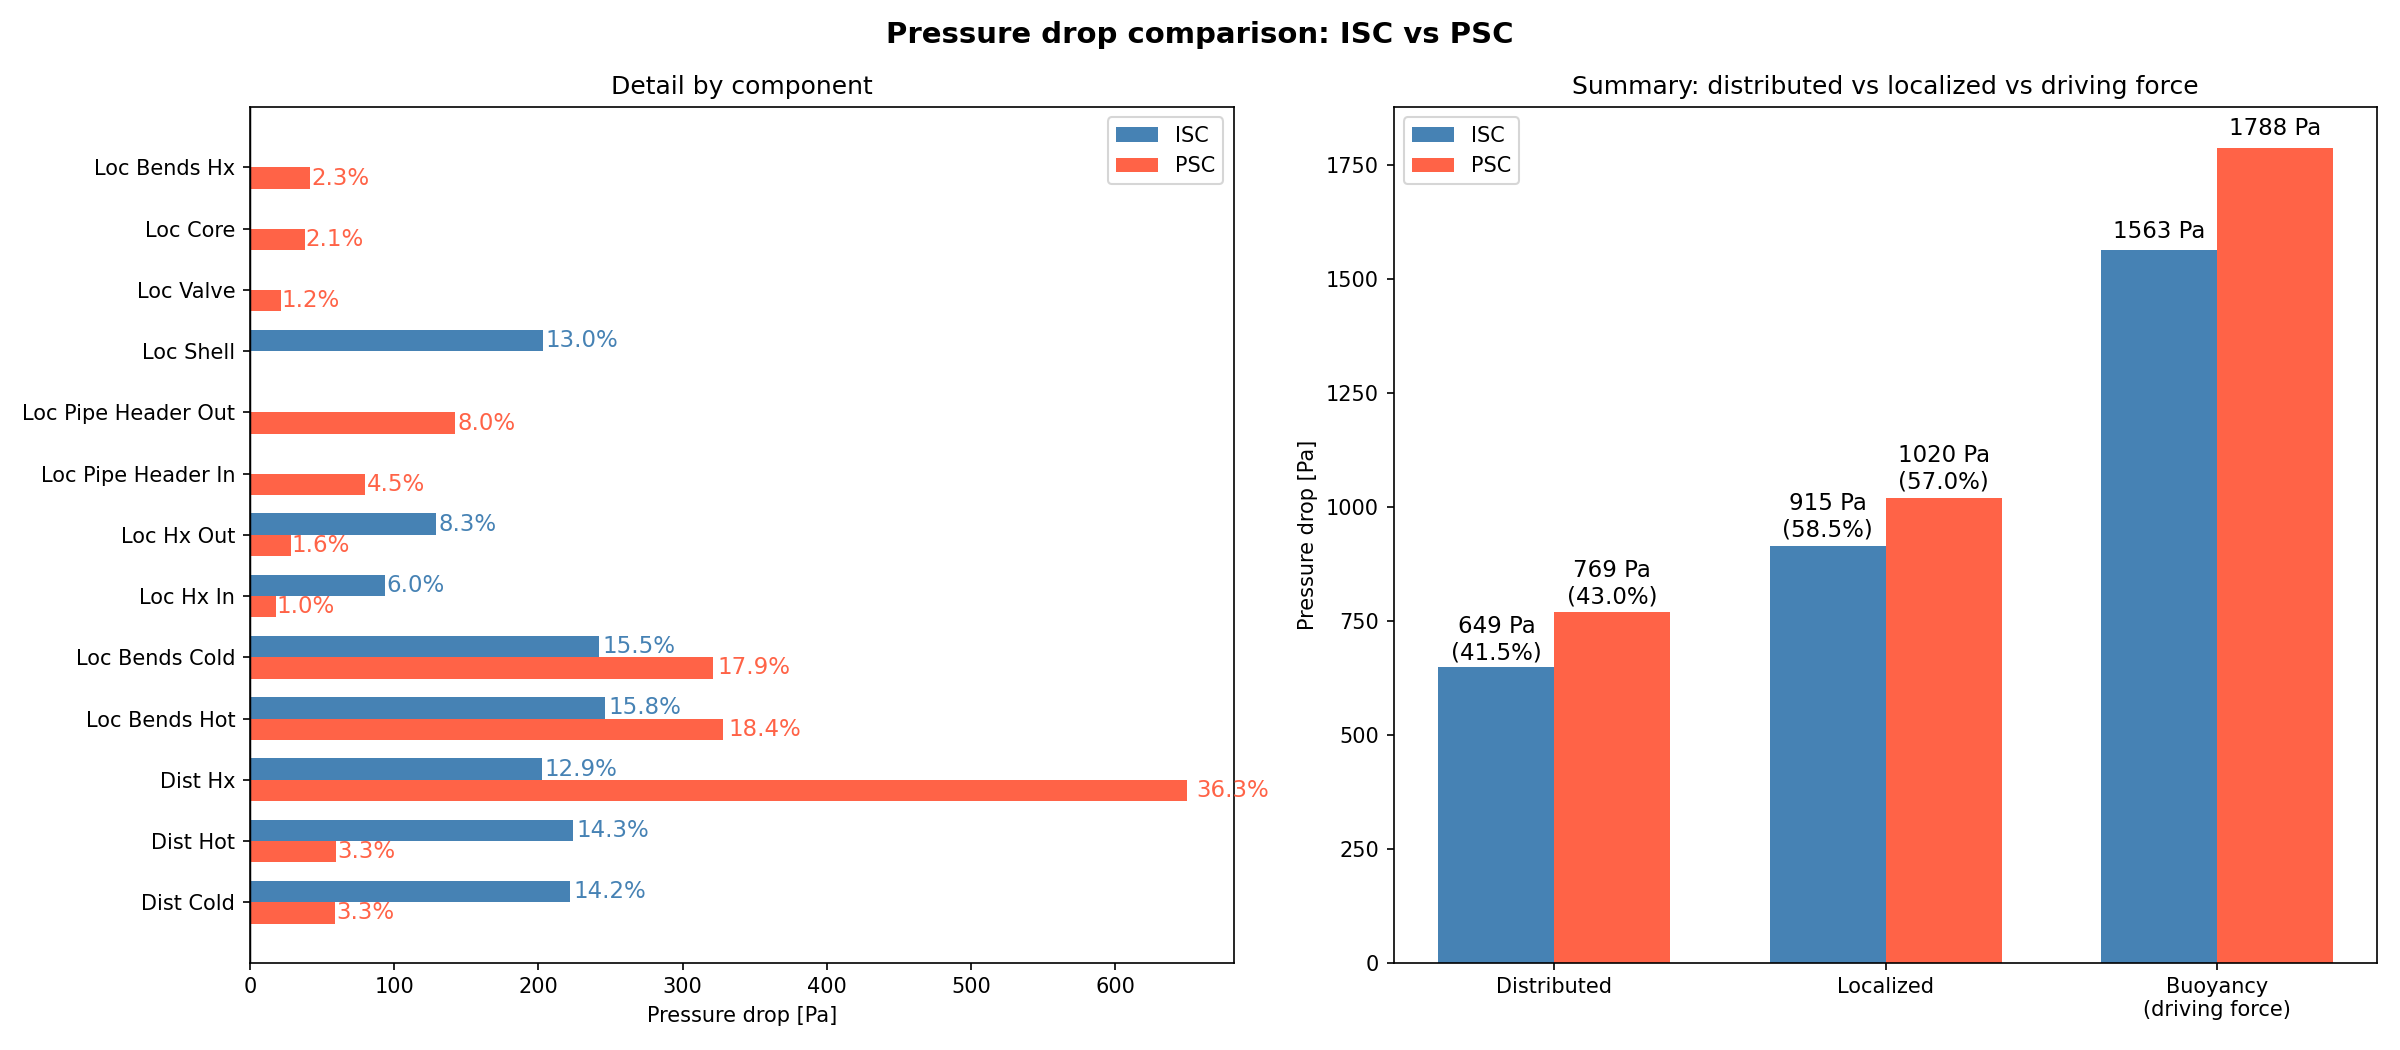
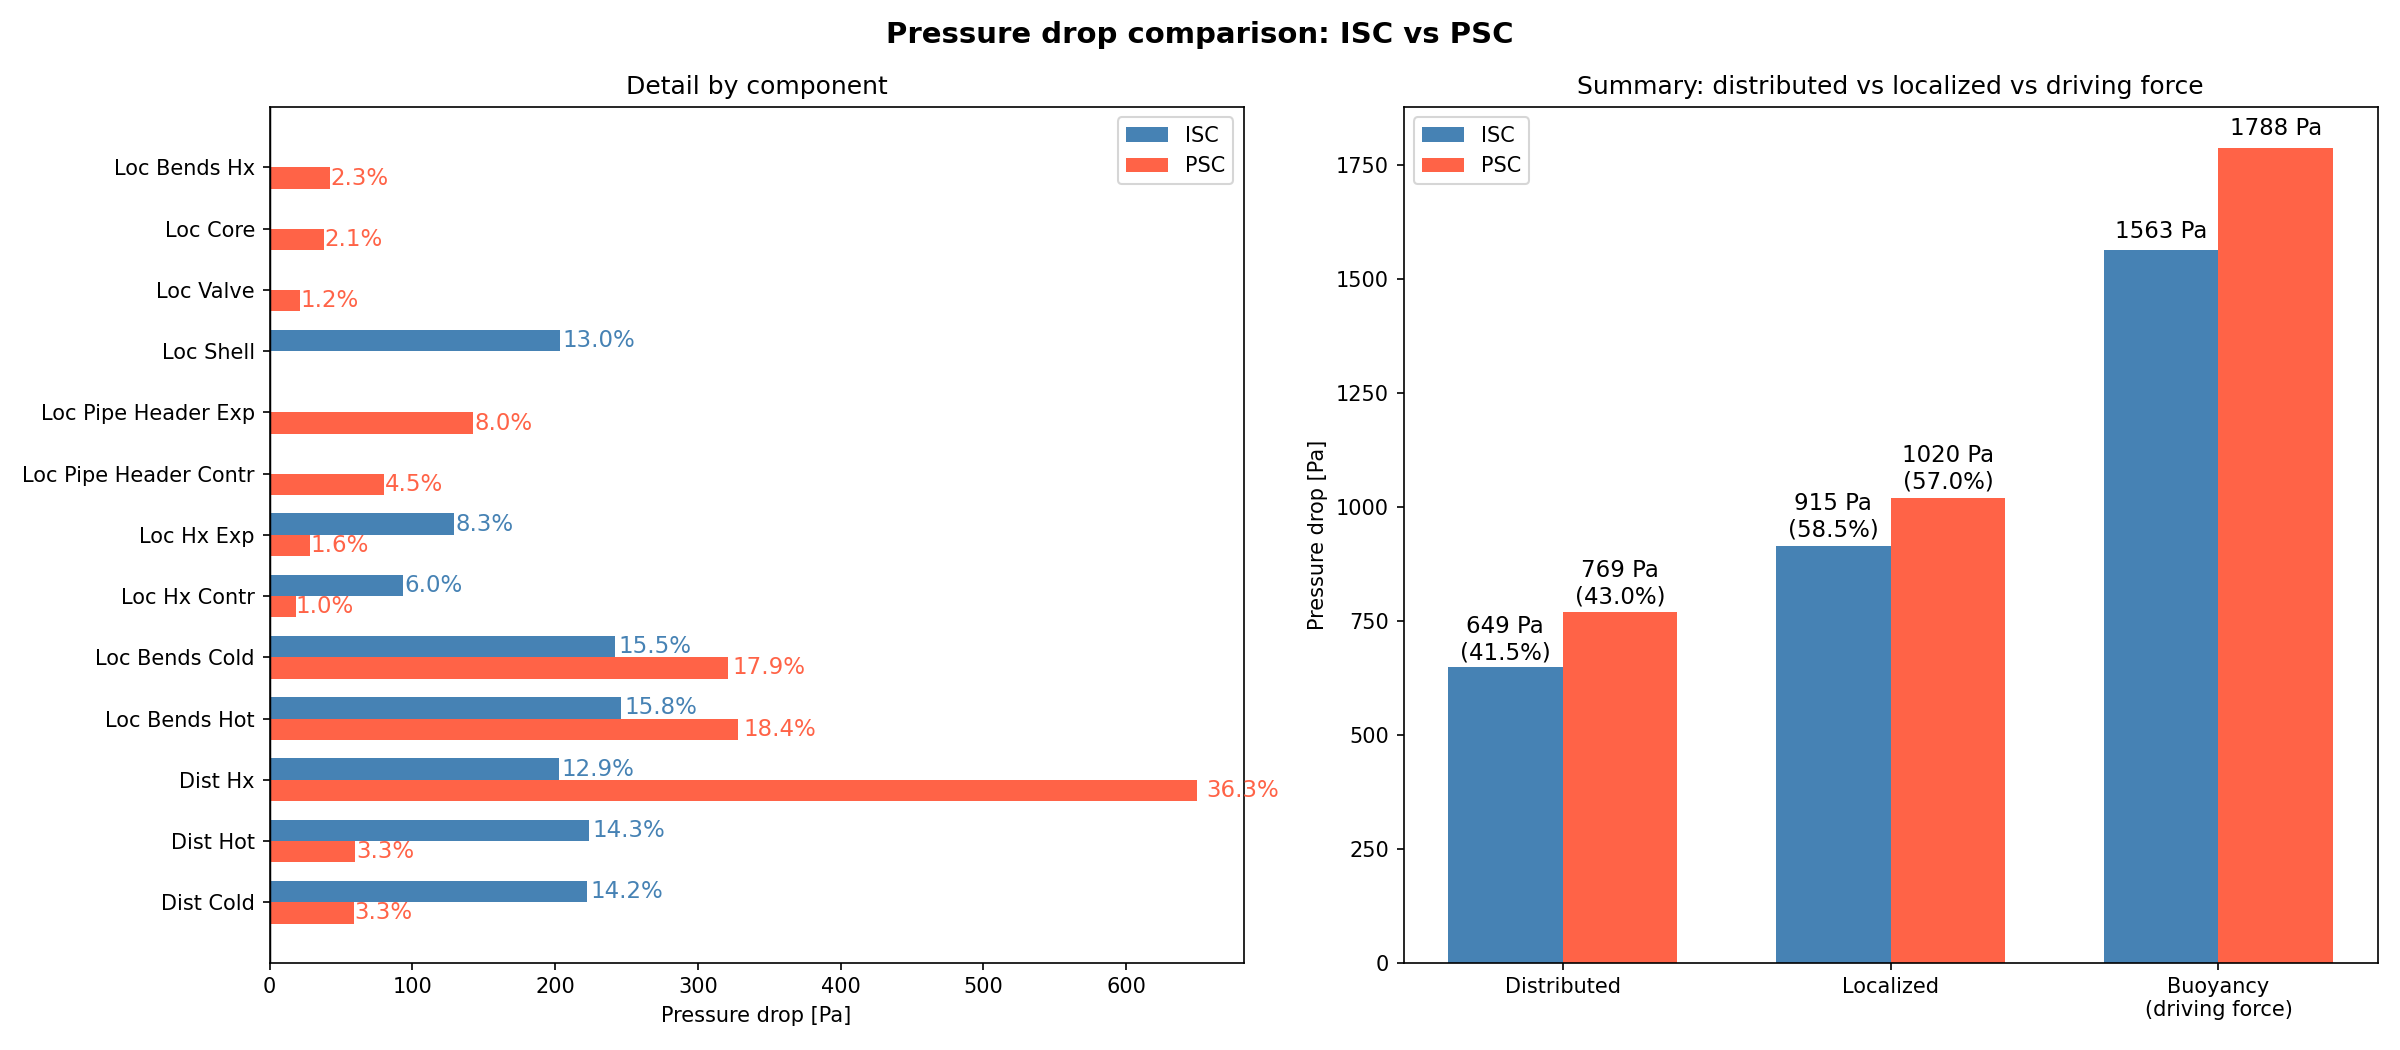
nomi headers

diff --git a/assignment1/project2.py b/assignment1/project2.py
@@ -120,12 +120,12 @@ def pressure_drop_friction(m, N_HX, p, D_pipe, D_HX, T_av, T_c, T_h, eps_pipe, e
         else:
             sigma = A_pipe / A_HX_tot
             A_narrow = A_pipe
-        k_in = 0.5*(1-sigma)
-        k_out = (1-sigma)**2
-        dp_loc_HX_in  = k_in  * 1/(2*rho_av * A_narrow**2)
-        dp_loc_HX_out = k_out * 1/(2*rho_av * A_narrow**2)
-        k_in_header, k_out_header = 0.0, 0.0
-        dp_loc_pipe_header_in, dp_loc_pipe_header_out = 0.0, 0.0
+        k_contr = 0.5*(1-sigma)
+        k_exp = (1-sigma)**2
+        dp_loc_HX_contr  = k_contr  * 1/(2*rho_av * A_narrow**2)
+        dp_loc_HX_exp = k_exp * 1/(2*rho_av * A_narrow**2)
+        k_contr_header, k_exp_header = 0.0, 0.0
+        dp_loc_pipe_header_contr, dp_loc_pipe_header_exp = 0.0, 0.0
 
     elif Circuit == 'PSC':
         # Transizione 1: main pipe <-> header
@@ -135,10 +135,10 @@ def pressure_drop_friction(m, N_HX, p, D_pipe, D_HX, T_av, T_c, T_h, eps_pipe, e
         else:
             sigma_ph = A_headers / A_pipe
             A_narrow_ph = A_headers
-        k_in_header = 0.5*(1-sigma_ph)
-        k_out_header = (1-sigma_ph)**2
-        dp_loc_pipe_header_in  = k_in_header  * 1/(2*rho_av * A_narrow_ph**2)
-        dp_loc_pipe_header_out = k_out_header * 1/(2*rho_av * A_narrow_ph**2)
+        k_contr_header = 0.5*(1-sigma_ph)
+        k_exp_header = (1-sigma_ph)**2
+        dp_loc_pipe_header_contr  = k_contr_header  * 1/(2*rho_av * A_narrow_ph**2)
+        dp_loc_pipe_header_exp = k_exp_header * 1/(2*rho_av * A_narrow_ph**2)
 
         # Transizione 2: header <-> HX tubes
         if A_HX_tot < A_headers:
@@ -147,10 +147,10 @@ def pressure_drop_friction(m, N_HX, p, D_pipe, D_HX, T_av, T_c, T_h, eps_pipe, e
         else:
             sigma = A_headers / A_HX_tot
             A_narrow = A_headers
-        k_in = 0.5*(1-sigma)
-        k_out = (1-sigma)**2
-        dp_loc_HX_in  = k_in  * 1/(2*rho_av * A_narrow**2)
-        dp_loc_HX_out = k_out * 1/(2*rho_av * A_narrow**2)
+        k_contr = 0.5*(1-sigma)
+        k_exp = (1-sigma)**2
+        dp_loc_HX_contr  = k_contr  * 1/(2*rho_av * A_narrow**2)
+        dp_loc_HX_exp = k_exp * 1/(2*rho_av * A_narrow**2)
 
     #perdite nel shell solo lato ISC
     if Circuit == 'ISC':
@@ -171,10 +171,10 @@ def pressure_drop_friction(m, N_HX, p, D_pipe, D_HX, T_av, T_c, T_h, eps_pipe, e
         'dist_HX': dp_dist_HX,
         'loc_bends_hot': dp_loc_bends_h,
         'loc_bends_cold': dp_loc_bends_c,
-        'loc_HX_in': dp_loc_HX_in,
-        'loc_HX_out': dp_loc_HX_out,
-        'loc_pipe_header_in': dp_loc_pipe_header_in,
-        'loc_pipe_header_out': dp_loc_pipe_header_out,
+        'loc_HX_contr': dp_loc_HX_contr,
+        'loc_HX_exp': dp_loc_HX_exp,
+        'loc_pipe_header_contr': dp_loc_pipe_header_contr,
+        'loc_pipe_header_exp': dp_loc_pipe_header_exp,
         'loc_shell': dp_loc_shell,
         'loc_valve': dp_loc_valve,
         'loc_core': dp_core,
@@ -182,13 +182,13 @@ def pressure_drop_friction(m, N_HX, p, D_pipe, D_HX, T_av, T_c, T_h, eps_pipe, e
     }
     k_dict = {
         'k_shell': k_shell,
-        'k_in': k_in,
-        'k_out': k_out,
-        'k_in_header': k_in_header,
-        'k_out_header': k_out_header
+        'k_contr': k_contr,
+        'k_exp': k_exp,
+        'k_contr_header': k_contr_header,
+        'k_exp_header': k_exp_header
     }
     dist_total = dp_dist_c + dp_dist_h + dp_dist_HX
-    loc_total = dp_loc_bends_h + dp_loc_bends_c + dp_loc_HX_in + dp_loc_HX_out + dp_loc_pipe_header_in + dp_loc_pipe_header_out + dp_loc_shell + dp_loc_valve + dp_core + dp_bends_HX
+    loc_total = dp_loc_bends_h + dp_loc_bends_c + dp_loc_HX_contr + dp_loc_HX_exp + dp_loc_pipe_header_contr + dp_loc_pipe_header_exp + dp_loc_shell + dp_loc_valve + dp_core + dp_bends_HX
     deltaP_friction = dist_total + loc_total
     return deltaP_friction, dp_dict, dist_total, loc_total, k_dict
 
@@ -345,8 +345,8 @@ def plot_convergence(history_m_ISC, history_T_av_ISC, history_m_PSC, history_T_a
 def plot_pressure_drop_pies(dp_dict_ISC, m_ISC, dp_dict_PSC, m_PSC, out_dir):
     """Torte affiancate: contributo percentuale di ogni componente alle perdite totali per ISC e PSC."""
     keys = ['dist_cold', 'dist_hot', 'dist_HX',
-            'loc_bends_hot', 'loc_bends_cold', 'loc_HX_in', 'loc_HX_out',
-            'loc_pipe_header_in', 'loc_pipe_header_out',
+            'loc_bends_hot', 'loc_bends_cold', 'loc_HX_contr', 'loc_HX_exp',
+            'loc_pipe_header_contr', 'loc_pipe_header_exp',
             'loc_shell', 'loc_valve', 'loc_core', 'loc_bends_HX']
     labels = [k.replace('_', ' ').title() for k in keys]
 
@@ -381,8 +381,8 @@ def plot_pressure_drops(dp_dict_ISC, m_ISC, dist_ISC, loc_ISC, dp_b_ISC,
 
     # Etichette: stesse del CSV (k.replace('_', ' ').title())
     keys = ['dist_cold', 'dist_hot', 'dist_HX',
-            'loc_bends_hot', 'loc_bends_cold', 'loc_HX_in', 'loc_HX_out',
-            'loc_pipe_header_in', 'loc_pipe_header_out',
+            'loc_bends_hot', 'loc_bends_cold', 'loc_HX_contr', 'loc_HX_exp',
+            'loc_pipe_header_contr', 'loc_pipe_header_exp',
             'loc_shell', 'loc_valve', 'loc_core', 'loc_bends_HX']
     labels = [k.replace('_', ' ').title() for k in keys]
 
@@ -465,7 +465,7 @@ def save_results_to_csv(dp_dict, m, buoyancy, dist_total, loc_total, filename, k
         
         writer.writerow(["", ""])
         writer.writerow(["--- LOCALIZED PRESSURE DROPS ---", ""])
-        for k in ['loc_bends_hot', 'loc_bends_cold', 'loc_HX_in', 'loc_HX_out', 'loc_pipe_header_in', 'loc_pipe_header_out', 'loc_shell', 'loc_valve', 'loc_core', 'loc_bends_HX']:
+        for k in ['loc_bends_hot', 'loc_bends_cold', 'loc_HX_contr', 'loc_HX_exp', 'loc_pipe_header_contr', 'loc_pipe_header_exp', 'loc_shell', 'loc_valve', 'loc_core', 'loc_bends_HX']:
             writer.writerow([k.replace('_', ' ').title(), round(dp_dict[k] * m**2, 4)])
         writer.writerow(["Total Localized", round(loc_total, 4)])
         
